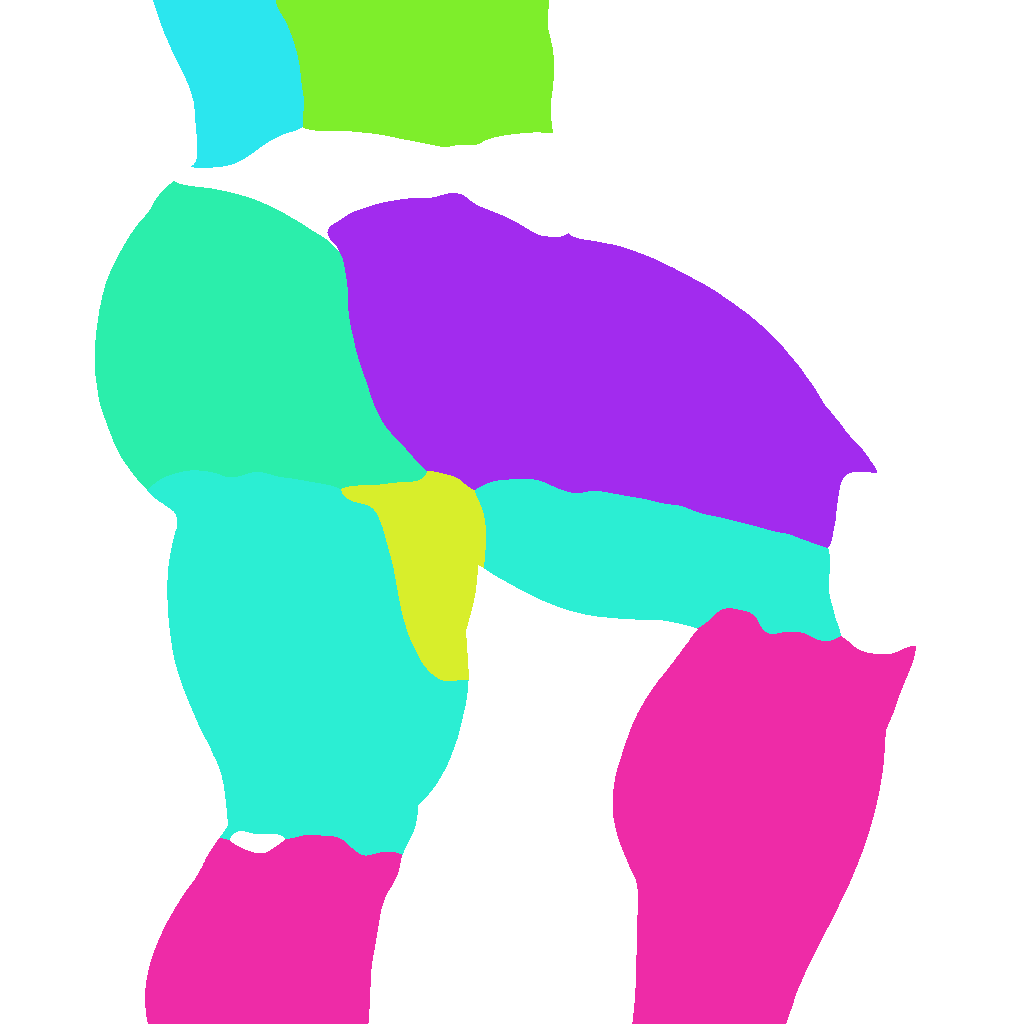
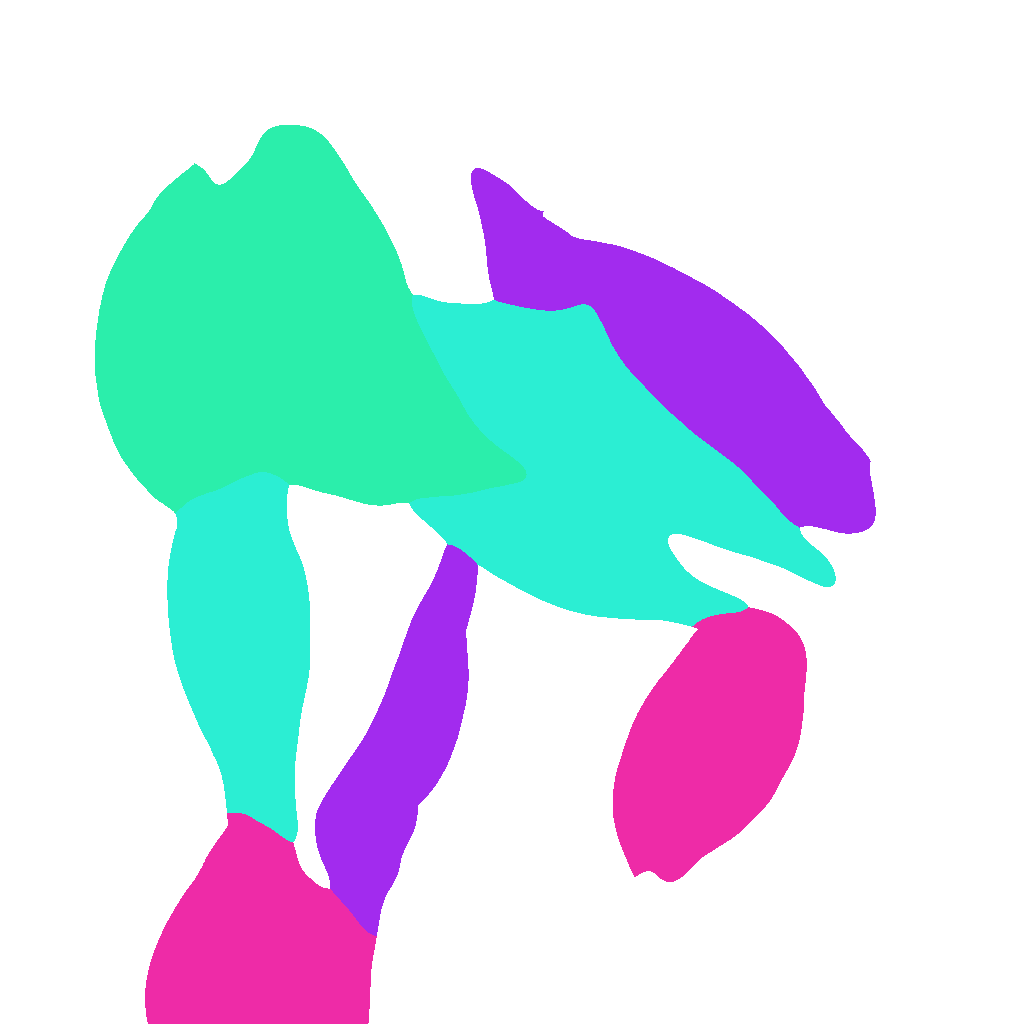
근육그림 4차: 확대 그림은 홍겸 님이 그어 준 선 안만 칠한다 + 가슴 정면 그림 [skip ci]
- 04 팔 · 05 다리 · 06 등 · 07 가슴 정면: 빨간 선 안의 조각만 번호대로 칸을 정하고 나머지는 비운다 (대표칸/손선칸.json)
- 가슴은 새 정면 그림(07_가슴정면) 하나 — 비스듬한 03_가슴확대는 버림
- 손선뽑기: 같은 그림 위에 바로 그은 선이면 맞추지 않고 그대로 쓴다

Changed region(s): [[0.1562, 0.0, 0.9062, 1.0], [0.125, 0.4375, 0.2188, 0.5]]

diff --git a/문서/자료/근육그림/대표칸/다듬기.py b/문서/자료/근육그림/대표칸/다듬기.py
@@ -4,6 +4,8 @@
 
 순서: ① 1차 지도(../지도)를 15칸으로 묶는다 → ② 고칠곳.json 의 고침을 차례로 적용
       → ③ 손선/이름.png 이 있으면(홍겸 님이 그어 준 선 — 손선뽑기.py) 그 선으로 나뉜 조각마다 한 칸으로 정한다 → ④ 경계를 매끈한 곡선으로
+      손선칸.json 에 적힌 그림(홍겸 님이 선 안에 번호로 칸을 적어 준 확대 그림)은 ① ② 없이 선 안의 그 조각들만 칠하고 나머지는 비운다 → ④
+      손선칸.json 에 적힌 그림(홍겸 님이 선 안에 번호로 칸을 적어 준 확대 그림)은 ① ② 없이 선 안의 그 조각들만 칠하고 나머지는 비운다 → ④
 결과: 지도/ (칸 하나에 단색 하나) · 확인/ (경계선 · 이름표) · 보기/ (명암을 살려 색을 입힌 모습)
 
 고칠곳.json — 그림마다 고침 목록. 좌표는 그림 픽셀(x, y). 점을 지나는 부드러운 곡선으로 닫힌 모양을 만든다.
@@ -169,6 +171,35 @@ def 손선나누기(cells, body, line, name):
     return out
 
 
+def 손선칸나누기(body, line, seeds):
+    """홍겸 님이 선 안에 번호를 적어 준 그림: 번호가 적힌 조각(손선칸.json 의 점이 든 조각)만 그 칸으로 칠하고 나머지는 비운다."""
+    # 선 안에 적은 번호 글씨(작은 덩어리)는 선이 아니다
+    n, lb, st, _ = cv2.connectedComponentsWithStats(line.astype(np.uint8), connectivity=8)
+    글씨 = [i for i in range(1, n) if max(st[i, cv2.CC_STAT_WIDTH], st[i, cv2.CC_STAT_HEIGHT]) < 130]
+    line = cv2.morphologyEx((line & ~np.isin(lb, 글씨)).astype(np.uint8), cv2.MORPH_CLOSE, cv2.getStructuringElement(cv2.MORPH_ELLIPSE, (5, 5))) > 0
+    n, lb = cv2.connectedComponents((body & ~line).astype(np.uint8), connectivity=4)
+    names = [s["칸"] for s in seeds]
+    칸 = {}
+    for i, s in enumerate(seeds):
+        for x, y in s["점"]:
+            if lb[y, x] == 0 or 칸.get(lb[y, x], i) != i:
+                sys.exit(f"⚠ 손선칸.json: {s['칸']} 의 점 ({x}, {y}) 이 선 위 · 몸 밖이거나 다른 칸과 같은 조각에 있다")
+            칸[lb[y, x]] = i
+    area = np.bincount(lb.ravel(), minlength=n)
+    lab = np.zeros(body.shape, np.int32)                       # 0 = 선 · 작은 자투리, 1 = 빈 곳, 2… = 칸
+    for c in range(1, n):
+        if c in 칸:
+            lab[lb == c] = 칸[c] + 2
+        elif area[c] >= 1500:
+            lab[lb == c] = 1
+    # 선과 자투리는 가장 가까운 조각으로 넘긴다 → 경계가 그어 준 선의 한가운데에 온다
+    vals = [v for v in range(1, len(names) + 2) if (lab == v).any()]
+    d = np.stack([cv2.distanceTransform((lab != v).astype(np.uint8), cv2.DIST_L2, 5) for v in vals])
+    lab = np.where(body & (lab == 0), np.array(vals)[d.argmin(0)], lab)
+    print("  손선 칸:", ", ".join(f"{nm} {int((lab == i + 2).sum())}" for i, nm in enumerate(names)))
+    return {(nm, ""): lab == i + 2 for i, nm in enumerate(names)}
+
+
 def 매끈하게(cells, body):
     """칸마다 흐리게 한 뒤 가장 센 칸을 고른다(빈 곳도 한 칸으로 친다). UP 배로 키운 그림에서 계산해 선을 잘게 쪼갠다."""
     keys = [k for k in cells if cells[k].any()]
@@ -220,17 +251,24 @@ def 다듬기(names):
     고칠곳 = json.load(open(os.path.join(HERE, "고칠곳.json"), encoding="utf-8"))
     for d in ("지도", "확인", "보기"):
         os.makedirs(os.path.join(HERE, d), exist_ok=True)
-    for f in sorted(glob.glob(os.path.join(HERE, "..", "지도", "*.png"))):
-        name = os.path.basename(f)[:-4]
+    손선칸 = json.load(open(os.path.join(HERE, "손선칸.json"), encoding="utf-8"))
+    손선칸.pop("설명", None)
+    일차 = {os.path.basename(f)[:-4] for f in glob.glob(os.path.join(HERE, "..", "지도", "*.png"))}
+    for name in sorted(일차 | set(손선칸)):
         if names and name not in names and name[:2] not in names:
             continue
         rgba = np.array(Image.open(os.path.join(HERE, "..", "그림", name + ".png")).convert("RGBA"))
         body = 도구.몸마스크(rgba)
-        cells = 칸읽기(np.array(Image.open(f).convert("RGBA")), colors, of)
-        cells = 고치기(cells, 고칠곳.get(name, []), body, name)
         hand = os.path.join(HERE, "손선", name + ".png")
-        if os.path.exists(hand):
-            cells = 손선나누기(cells, body, np.array(Image.open(hand).convert("L")) > 127, name)
+        if name in 손선칸:                                      # 번호를 적어 준 그림: 선 안의 조각만 칠한다
+            cells = 손선칸나누기(body, np.array(Image.open(hand).convert("L")) > 127, 손선칸[name])
+            고침 = f"손선 칸 {len(손선칸[name])}가지"
+        else:
+            cells = 칸읽기(np.array(Image.open(os.path.join(HERE, "..", "지도", name + ".png")).convert("RGBA")), colors, of)
+            cells = 고치기(cells, 고칠곳.get(name, []), body, name)
+            if os.path.exists(hand):
+                cells = 손선나누기(cells, body, np.array(Image.open(hand).convert("L")) > 127, name)
+            고침 = f"고침 {len(고칠곳.get(name, []))}개"
         cells = 매끈하게(cells, body)
         out = np.zeros(rgba.shape, np.uint8)
         for (nm, side), sel in cells.items():
@@ -240,7 +278,7 @@ def 다듬기(names):
         msgs, counts = 도구.검사(out, body, 이름표)
         도구.겹쳐보기(rgba, out, 이름표, os.path.join(HERE, "확인", name + ".jpg"), title=name + " — 15칸")
         색입히기(rgba, cells).save(os.path.join(HERE, "보기", name + ".jpg"), quality=90)
-        print(f"■ {name}: {len(counts)}칸 · 고침 {len(고칠곳.get(name, []))}개", *msgs, sep="\n  ")
+        print(f"■ {name}: {len(counts)}칸 · {고침}", *msgs, sep="\n  ")
 
 
 if __name__ == "__main__":

diff --git a/문서/자료/근육그림/대표칸/손선뽑기.py b/문서/자료/근육그림/대표칸/손선뽑기.py
@@ -27,7 +27,18 @@ def 뽑기(shot_path, name):
         m = th > 35
     n, lb, st, _ = cv2.connectedComponentsWithStats(m.astype(np.uint8), connectivity=8)
     line = np.isin(lb, [i for i in range(1, n) if st[i, cv2.CC_STAT_AREA] >= 12])
-    body_o = np.array(Image.open(os.path.join(HERE, "..", "그림", name + ".png")).convert("RGBA"))[..., 3] >= 128
+    orig = np.array(Image.open(os.path.join(HERE, "..", "그림", name + ".png")).convert("RGBA")).astype(np.float32)
+    body_o = orig[..., 3] >= 128
+    os.makedirs(os.path.join(HERE, "손선"), exist_ok=True)
+    if shot.shape[:2] == body_o.shape:
+        # 원래 그림과 같은 크기: 그 그림 위에 바로 그은 것이면(선 밖의 회색이 그대로면) 맞출 것 없이 그대로 쓴다
+        a = orig[..., 3:] / 255
+        gray = (orig[..., :3] * a + 255 * (1 - a)).mean(-1)
+        rest = cv2.dilate(m.astype(np.uint8), np.ones((9, 9), np.uint8)) == 0
+        if np.abs(shot.mean(-1) - gray)[rest].mean() < 6:
+            Image.fromarray((line * 255).astype(np.uint8)).save(os.path.join(HERE, "손선", name + ".png"))
+            print(f"손선/{name}.png — 선 {int(line.sum())}px · 같은 그림 위에 그은 선(그대로 씀)")
+            return
     body_s = (shot.min(-1) < 235) | line
     body_s = cv2.morphologyEx(body_s.astype(np.uint8), cv2.MORPH_CLOSE, np.ones((5, 5), np.uint8)) > 0
 
@@ -48,7 +59,6 @@ def 뽑기(shot_path, name):
                 if best is None or iou > best[0]:
                     best = (iou, M)
     out = cv2.warpAffine(line.astype(np.float32), best[1], (W, H), flags=cv2.INTER_LINEAR) > 0.12
-    os.makedirs(os.path.join(HERE, "손선"), exist_ok=True)
     Image.fromarray((out * 255).astype(np.uint8)).save(os.path.join(HERE, "손선", name + ".png"))
     print(f"손선/{name}.png — 선 {int(out.sum())}px · 겹침 {best[0]:.3f} · 배율 {best[1][0, 0]:.3f}")
 

diff --git a/문서/자료/근육그림/다듬기.py b/문서/자료/근육그림/다듬기.py
@@ -22,10 +22,10 @@ DST = sys.argv[2] if len(sys.argv) > 2 else "그림"
     "01_전신앞": {"점": [(263, 430, 13), (500, 430, 13)],
                  "흐림": [(385, 765, 58, 44)]},
     "02_전신뒤": {},
-    "03_가슴확대": {"점": [(662, 626, 20), (196, 600, 15)]},
     "04_팔어깨확대": {},
     "05_굽힌다리확대": {},
     "06_등확대": {},
+    "07_가슴정면": {"점": [(278, 549, 18), (738, 549, 18)]},
 }
 전신 = ("01_전신앞", "02_전신뒤")
 흰색기준 = 238          # 이보다 밝고 흰 덩어리면 배경

diff --git a/문서/자료/근육그림/대표칸/설명.md b/문서/자료/근육그림/대표칸/설명.md
@@ -8,7 +8,8 @@
 | `고칠곳.json` | 그림마다 경계를 손본 목록(좌표). **경계를 고칠 때는 여기를 고친다** |
 | `다듬기.py` | 1차 지도(`../지도/`)를 15칸으로 묶고 → 고칠곳을 적용하고 → 경계를 매끈한 곡선으로 → `지도/` · `확인/` · `보기/` |
 | `밑그림/` | 선을 그을 때 쓰는 회색 그림(흰 바탕) 6장 |
-| `손선뽑기.py` · `손선/` | 홍겸 님이 그림 위에 그어 준 선을 뽑아 원래 그림 자리에 맞춘 것. 있으면 다듬기.py 가 그 선으로 나뉜 조각마다 한 칸으로 정한다(선 자체는 매끈하게 다시 편다 · 전신은 좌우를 맞춘다). 지금은 01_전신앞만 있다 |
+| `손선뽑기.py` · `손선/` | 홍겸 님이 그림 위에 그어 준 선을 뽑아 원래 그림 자리에 맞춘 것. 있으면 다듬기.py 가 그 선으로 나뉜 조각마다 한 칸으로 정한다(선 자체는 매끈하게 다시 편다 · 전신은 좌우를 맞춘다). 01_전신앞 · 04 · 05 · 06 · 07 이 있다 |
+| `손선칸.json` | 확대 그림에서 홍겸 님이 선 안에 번호로 적어 준 칸(조각 안의 한 점 → 칸 이름). **여기 적힌 그림은 선 안의 그 조각만 칠하고 나머지는 비운다** — 1차 지도와 고칠곳.json 은 쓰지 않는다. 칸을 바꾸거나 조각을 더 칠할 때는 여기를 고친다 |
 | `묶기.py` | 잔 근육 지도를 15칸으로 묶는 부분(다듬기.py 가 불러 쓴다) |
 | `지도/` | 색칠 지도 — 칸 하나에 단색 하나(테두리 섞임 없음). 색 → 칸은 `칸표.json` 의 대표 id 와 `../색표.json` |
 | `확인/` | 그림 + 지도 + 경계선 · 이름표 |
@@ -17,10 +18,17 @@
 
 다시 만들기: `python 다듬기.py` (한 장만: `python 다듬기.py 06`)
 
+선을 새로 그어 줬을 때: `python 손선뽑기.py 선그은그림 이름` → (번호를 적어 준 그림이면 `손선칸.json` 에 조각마다 점 하나와 칸 이름) → `python 다듬기.py 이름`
+
 ## 정한 것 (홍겸 님 · 10-09)
 - 15칸: 목 · 어깨 · 가슴 · 광배 · 승모 · 허리 · 이두 · 삼두 · 전완 · 복부 · 엉덩이 · 대퇴사두 · 햄스트링 · 내전근 · 종아리
 - **칸에는 그 근육 자리만 칠한다.** 엉덩이 = 엉덩이 근육 둥근 덩어리만 — 옆으로 삐져나온 살 · 엉덩이골 위 · 앞에서 보이는 골반 옆은 칠하지 않는다
 - 대원근 → 광배, 상완근 → 이두, 상완요골근 → 전완, 정강이(전경골근) → 종아리, 목은 목 전체
+
+- **확대 그림은 빨간 선으로 그어 준 곳만 칠한다** (`손선칸.json`)
+  - 04 팔: 어깨 · 이두 · 삼두 · 전완 / 05 다리: 엉덩이 · 대퇴사두 · 햄스트링 · 종아리 / 06 등: 승모 · 광배 · 삼두 · 어깨 · 허리(척추기립근) / 07 가슴 정면: 가슴 · 어깨
+  - 05 다리에서 서 있는 다리의 햄스트링과 대퇴사두 사이 띠(허벅지 안쪽)는 비워 둔다
+- 비스듬한(45°) 가슴 그림 03_가슴확대는 버렸다 — 가슴은 정면 그림 07_가슴정면 하나
 
 ## Claude 가 판단해 넣은 것 (바꿀 수 있다)
 - 어깨뼈 위 불룩한 곳(극하근 자리) → 광배 (대원근과 한 덩어리로 보여서)
